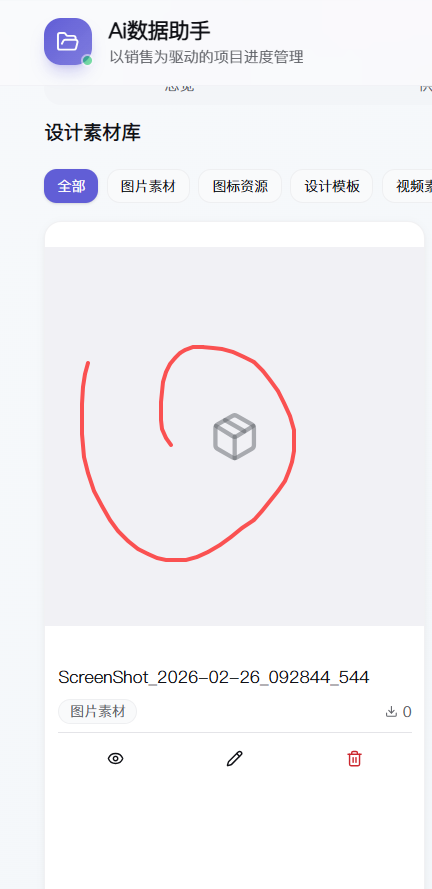
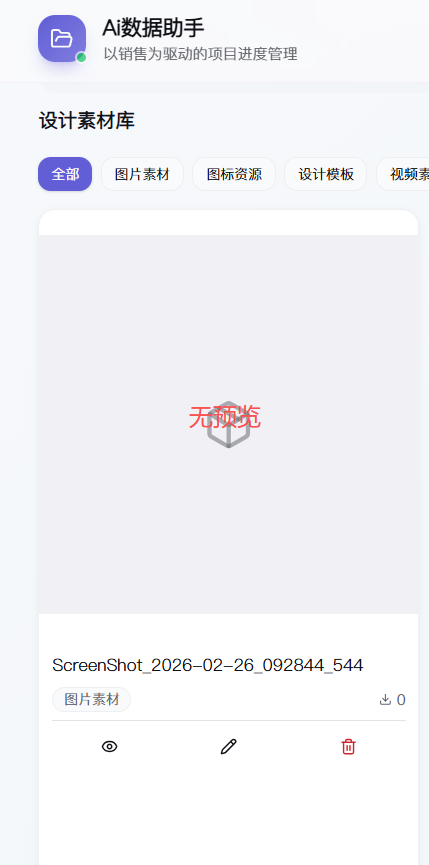
fix: 彻底修复销售目标输入和图片预览问题
## 销售目标输入框
- 移除复杂的 ref 机制，直接从事件对象获取输入值
- 使用稳定的 key 策略：`input-${target.id}-${monthly.id}-${monthly.actualAmount}`
- onBlur 时直接读取 e.target.value，与原始值比较后提交
- 修复变量名错误：numValue -> newValue

## 图片预览（设计素材API）
- 将 storage 从模块级变量改为 getStorage() 函数
- 延迟初始化 S3Storage，避免环境变量未就绪时失败
- 确保预签名URL生成时 storage 实例有效

diff --git a/src/app/page.tsx b/src/app/page.tsx
@@ -1215,8 +1215,6 @@ function HomePageContent() {
   const [salesTargets, setSalesTargets] = useState<AnnualSalesTarget[]>([]);
   const [isSalesTargetDialogOpen, setIsSalesTargetDialogOpen] = useState(false);
   const [editingSalesTarget, setEditingSalesTarget] = useState<AnnualSalesTarget | null>(null);
-  // 使用 ref 存储输入框元素，避免受控组件的状态同步问题
-  const monthlyInputRefs = useRef<Record<string, HTMLInputElement | null>>({});
   const [newSalesTarget, setNewSalesTarget] = useState({
     year: new Date().getFullYear(),
     brand: '' as 'he_zhe' | 'baobao' | 'ai_he' | 'bao_deng_yuan',
@@ -2053,20 +2051,15 @@ function HomePageContent() {
     }
   };
 
-  // 更新月度销售目标 - 使用非受控组件 + ref
+  // 更新月度销售目标 - 简化版本
   // 提交实际完成值更新
-  const submitActualAmount = async (monthlyId: string, targetId: string) => {
-    const inputEl = monthlyInputRefs.current[monthlyId];
-    if (!inputEl) return;
-    
-    const numValue = parseInt(inputEl.value) || 0;
-    
+  const submitActualAmount = async (monthlyId: string, targetId: string, newValue: number) => {
     // 获取原始值进行比较
     const target = salesTargets.find(t => t.id === targetId);
     const monthly = target?.monthlyTargets?.find(m => m.id === monthlyId);
     const originalValue = monthly?.actualAmount || 0;
     
-    if (numValue === originalValue) return; // 值未改变，不提交
+    if (newValue === originalValue) return; // 值未改变，不提交
     
     // 乐观更新本地状态
     setSalesTargets(prevTargets => {
@@ -2075,7 +2068,7 @@ function HomePageContent() {
         
         const updatedMonthlyTargets = t.monthlyTargets?.map(mt => {
           if (mt.id === monthlyId) {
-            return { ...mt, actualAmount: numValue };
+            return { ...mt, actualAmount: newValue };
           }
           return mt;
         });
@@ -2090,7 +2083,7 @@ function HomePageContent() {
       const response = await fetch('/api/sales-targets/monthly', {
         method: 'PATCH',
         headers: { 'Content-Type': 'application/json' },
-        body: JSON.stringify({ id: monthlyId, actualAmount: numValue }),
+        body: JSON.stringify({ id: monthlyId, actualAmount: newValue }),
       });
 
       if (!response.ok) {
@@ -3045,19 +3038,24 @@ function HomePageContent() {
                                     <tr className="border-b">
                                       <td className="px-2 sm:px-3 py-1 sm:py-2 font-medium whitespace-nowrap">实际（万元）</td>
                                       {target.monthlyTargets.map((monthly) => {
-                                        // 确保 monthly.id 存在，否则使用 month 作为备用 key
-                                        const rowKey = monthly.id || `month-${monthly.month}`;
                                         const monthlyRate = monthly.targetAmount > 0
                                           ? ((monthly.actualAmount / monthly.targetAmount) * 100).toFixed(1)
                                           : '0.0';
                                         const isComplete = parseFloat(monthlyRate) >= 100;
                                         return (
-                                          <td key={`actual-${rowKey}`} className="px-2 py-2 text-center">
+                                          <td key={`actual-${monthly.id || monthly.month}`} className="px-2 py-2 text-center">
                                             <input
                                               type="number"
-                                              ref={(el) => { if (el && monthly.id) monthlyInputRefs.current[monthly.id] = el; }}
+                                              key={`input-${target.id}-${monthly.id || monthly.month}-${monthly.actualAmount}`}
                                               defaultValue={monthly.actualAmount ?? 0}
-                                              onBlur={() => monthly.id && submitActualAmount(monthly.id, target.id)}
+                                              onBlur={(e) => {
+                                                if (!monthly.id) return;
+                                                const newValue = parseInt(e.target.value) || 0;
+                                                const originalValue = monthly.actualAmount || 0;
+                                                if (newValue !== originalValue) {
+                                                  submitActualAmount(monthly.id, target.id, newValue);
+                                                }
+                                              }}
                                               className={`w-full h-7 text-center text-xs border rounded px-1 focus:outline-none focus:ring-2 focus:ring-primary/20 ${isComplete ? 'border-green-500' : 'border-border/50'}`}
                                               style={{ minWidth: '40px' }}
                                             />

diff --git a/src/app/api/shared/designs/route.ts b/src/app/api/shared/designs/route.ts
@@ -3,17 +3,16 @@ import { getSupabaseClient } from '@/storage/database/supabase-client';
 import { requireAuth, isAuthUser } from '@/lib/api-auth';
 import { S3Storage } from 'coze-coding-dev-sdk';
 
-;
-;
-
-// 初始化对象存储
-const storage = new S3Storage({
-  endpointUrl: process.env.COZE_BUCKET_ENDPOINT_URL,
-  accessKey: '',
-  secretKey: '',
-  bucketName: process.env.COZE_BUCKET_NAME,
-  region: 'cn-beijing',
-});
+// 初始化对象存储 - 使用函数延迟初始化
+const getStorage = () => {
+  return new S3Storage({
+    endpointUrl: process.env.COZE_BUCKET_ENDPOINT_URL,
+    accessKey: '',
+    secretKey: '',
+    bucketName: process.env.COZE_BUCKET_NAME,
+    region: 'cn-beijing',
+  });
+};
 
 // 获取设计素材列表
 export async function GET(request: NextRequest) {
@@ -68,7 +67,7 @@ export async function GET(request: NextRequest) {
       }
 
       // 生成内部存储的下载链接
-      const downloadUrl = await storage.generatePresignedUrl({
+      const downloadUrl = await getStorage().generatePresignedUrl({
         key: asset.file_key,
         expireTime: 60 * 60, // 1小时
       });
@@ -109,7 +108,7 @@ export async function GET(request: NextRequest) {
       // 使用 preview_key 生成预览URL
       if (asset.preview_key) {
         try {
-          const previewUrl = await storage.generatePresignedUrl({
+          const previewUrl = await getStorage().generatePresignedUrl({
             key: asset.preview_key,
             expireTime: 24 * 60 * 60, // 24小时
           });
